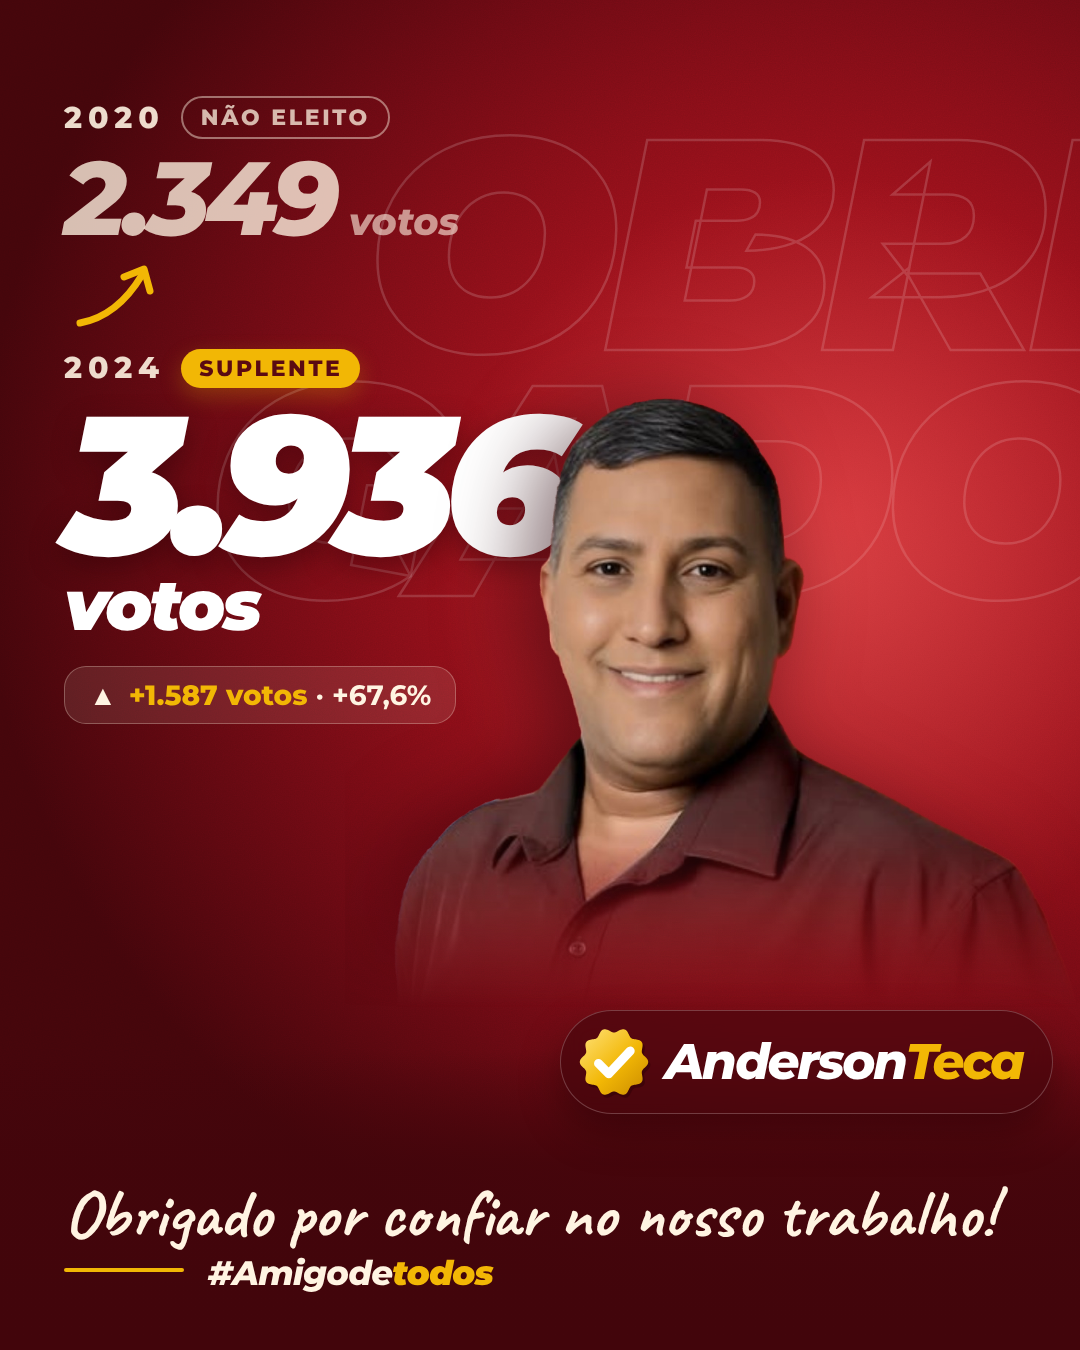
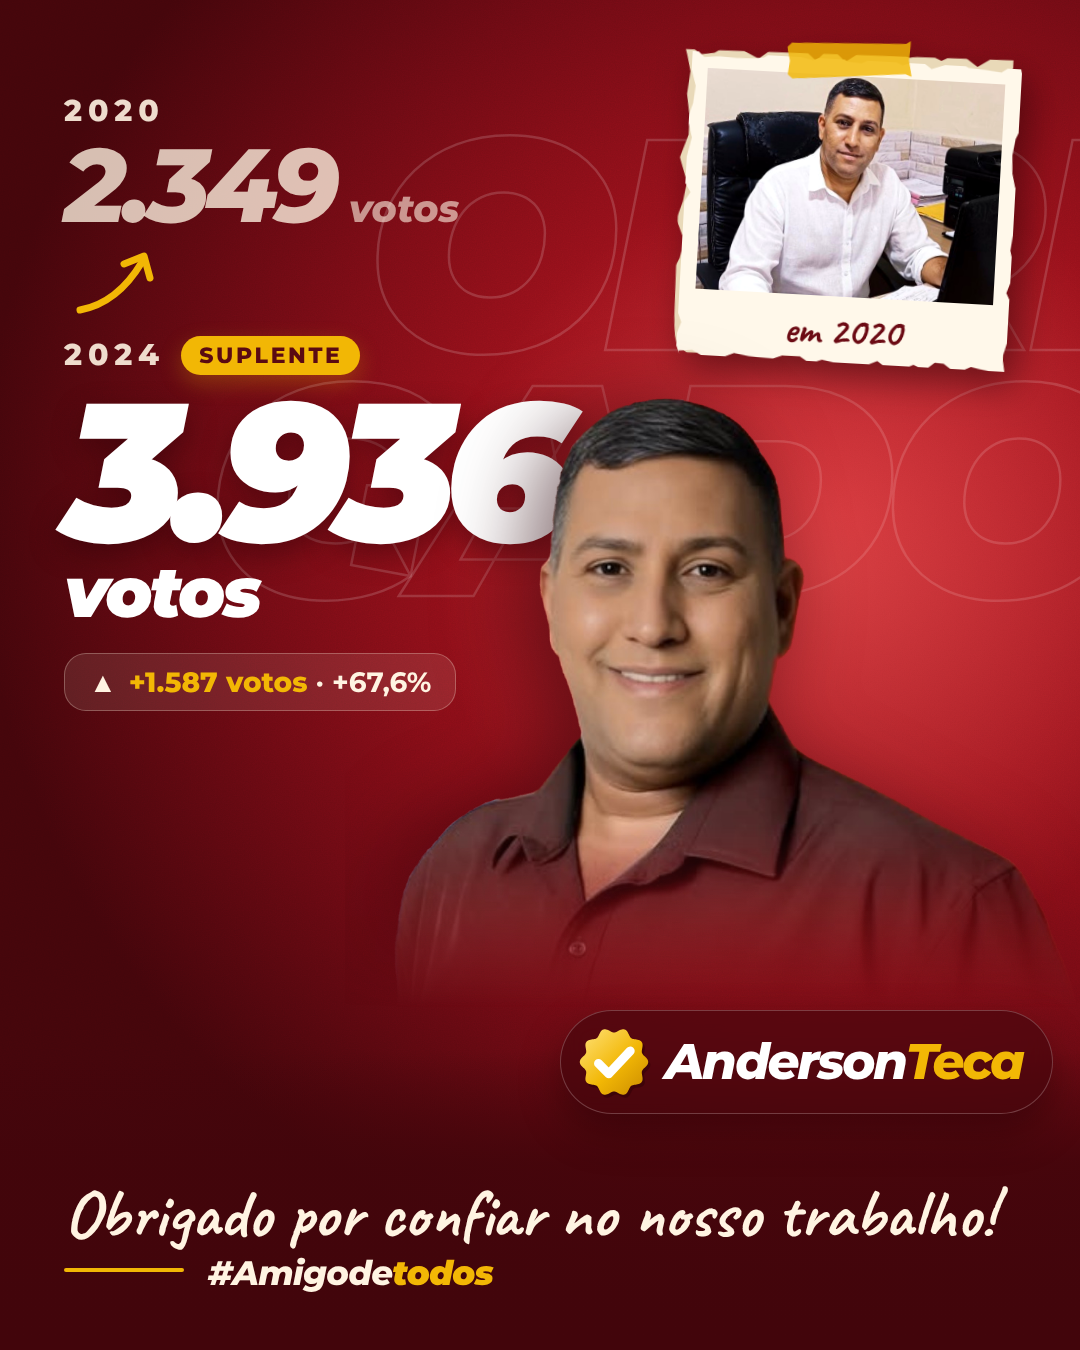
Anderson Teca v3: recorte de papel com foto de 2020, sem rótulo de 2020
Claude-Session: https://claude.ai/code/session_01Y4FBjftjKYjL6a6dxycj4C

Changed region(s): [[0.0306, 0.0622, 0.55, 0.4667], [0.6111, 0.0311, 0.9778, 0.3111], [0.0917, 0.4978, 0.3972, 0.5289]]

diff --git a/artes-clientes/anderson-teca/arte.html b/artes-clientes/anderson-teca/arte.html
@@ -32,6 +32,14 @@
   .n24 .v { font:italic 900 70px/1 'Montserrat'; letter-spacing:-.04em; color:#fff; margin-top:4px }
   .chip { position:relative; z-index:4; display:inline-flex; align-items:center; gap:12px; margin-top:26px; padding:14px 24px; border-radius:22px; background:rgba(255,244,226,.1); border:1.5px solid rgba(255,244,226,.28); font:700 28px/1 'Montserrat'; color:var(--cream) }
   .chip b { font-weight:800; color:var(--gold) }
+  /* recorte de papel com a foto de 2020 */
+  #p20 { z-index:2; transform-origin:50% 50%; filter:drop-shadow(10px 14px 18px rgba(30,0,4,.5)) }
+  #p20 .back { position:absolute; inset:0; background:#E9D9B8 }
+  #p20 .sheet { position:absolute; inset:0; background:#FFF8EA }
+  #p20 .ph { position:absolute; overflow:hidden; background:#000 }
+  #p20 .ph img { width:100%; height:100%; object-fit:cover; object-position:50% 32%; display:block; filter:contrast(1.04) saturate(1.05) }
+  #p20 .cap { position:absolute; left:0; right:0; text-align:center; font:700 40px/1 'Caveat'; color:#6B0A13; transform:rotate(-1.5deg) }
+  #p20 .tape { position:absolute; width:124px; height:36px; background:rgba(242,183,5,.82); box-shadow:0 4px 10px rgba(40,0,6,.25); clip-path:polygon(0 12%,4% 0,96% 8%,100% 0,98% 55%,100% 100%,95% 92%,4% 100%,0 88%,2% 50%) }
   /* rodapé */
   #foot { z-index:4; left:0; width:1080px; background:linear-gradient(180deg,rgba(66,5,11,0),rgba(66,5,11,.85) 38%,#42050B) }
   #thanks { z-index:6; left:64px; right:64px; font:700 68px/1 'Caveat'; color:var(--cream); white-space:nowrap }
@@ -46,13 +54,14 @@
   <img class="abs" id="me" src="work/anderson.png">
   <div class="abs" id="foot"></div>
   <div class="abs" id="col">
-    <div class="yr"><span class="y">2020</span><span class="st off">Não eleito</span></div>
+    <div class="yr"><span class="y">2020</span></div>
     <div class="n20"><span class="n">2.349</span><span class="v">votos</span></div>
     <svg class="arrow" width="90" height="70" viewBox="0 0 90 70"><path d="M8 62 C 30 58, 52 44, 70 14" fill="none" stroke="#F2B705" stroke-width="7" stroke-linecap="round"/><path d="M52 16 L72 8 L78 30" fill="none" stroke="#F2B705" stroke-width="7" stroke-linecap="round" stroke-linejoin="round"/></svg>
     <div class="yr"><span class="y">2024</span><span class="st on">Suplente</span></div>
     <div class="n24"><div class="n">3.936</div><div class="v">votos</div></div>
     <div class="chip">▲ <span><b>+1.587 votos</b> · +67,6%</span></div>
   </div>
+  <div class="abs" id="p20"><div class="back"></div><div class="sheet"></div><div class="ph"><img src="work/anderson2020.jpg"></div><div class="cap">em 2020</div><div class="tape"></div></div>
   <div class="abs" id="logo"><svg width="74" height="74" viewBox="-50 -50 100 100" id="check"></svg><div class="wm">Anderson<b>Teca</b></div></div>
   <div class="abs" id="thanks">Obrigado por confiar no nosso trabalho!</div>
   <div class="abs" id="rule"></div>
@@ -60,8 +69,8 @@
 </div>
 <script>
 const F = new URLSearchParams(location.search).get('f') || 'feed'
-const L = { feed:  { H:1350, ghost:120, glow:[380, 120], me:[345, 300, 860],  logo:[560, 1010], col:96,  foot:[1050, 300], thanks:1180, rule:1268, tag:1256 },
-            story: { H:1920, ghost:260, glow:[340, 520], me:[180, 640, 1000], logo:[540, 1420], col:290, foot:[1480, 440], thanks:1630, rule:1720, tag:1708 } }[F]
+const L = { feed:  { p20:[684, 60, 330, 3.2], H:1350, ghost:120, glow:[380, 120], me:[345, 300, 860],  logo:[560, 1010], col:96,  foot:[1050, 300], thanks:1180, rule:1268, tag:1256 },
+            story: { p20:[672, 250, 350, 3.2], H:1920, ghost:260, glow:[340, 520], me:[180, 640, 1000], logo:[540, 1420], col:290, foot:[1480, 440], thanks:1630, rule:1720, tag:1708 } }[F]
 const $ = id => document.getElementById(id), art = $('art')
 art.style.height = L.H + 'px'; document.body.style.height = L.H + 'px'
 $('ghost').style.top = L.ghost + 'px'
@@ -76,5 +85,20 @@ const scallop = (R, amp, n) => { let d = ''; for (let i = 0; i <= 240; i++) { co
 $('check').innerHTML = `<defs><linearGradient id="g1" x1="0" y1="0" x2="1" y2="1"><stop offset="0" stop-color="#FFE27A"/><stop offset=".55" stop-color="#F2B705"/><stop offset="1" stop-color="#C98A00"/></linearGradient></defs>
   <path d="${scallop(43, .075, 10)}" fill="#2a0306" opacity=".45" transform="translate(3 4)"/><path d="${scallop(43, .075, 10)}" fill="url(#g1)"/>
   <path d="M-21 2 L-7 16 L22 -15" fill="none" stroke="#fff" stroke-width="12" stroke-linecap="round" stroke-linejoin="round"/>`
+// monta o recorte: papel rasgado (duas camadas) + foto + fita
+let sd = 5; const rnd = () => (sd = (sd * 16807) % 2147483647) / 2147483647
+const tornPoly = (amp, step) => { const pts = []; const N = 14
+  for (let x = 0; x <= 100; x += step + rnd() * step) pts.push([x, (rnd() - .5) * amp])
+  for (let y = 0; y <= 100; y += step * 1.6 + rnd() * step) pts.push([100 + (rnd() - .5) * amp, y])
+  for (let x = 100; x >= 0; x -= step + rnd() * step) pts.push([x, 100 + (rnd() - .5) * amp])
+  for (let y = 100; y >= 0; y -= step * 1.6 + rnd() * step) pts.push([(rnd() - .5) * amp, y])
+  return 'polygon(' + pts.map(([x, y]) => x.toFixed(1) + '% ' + y.toFixed(1) + '%').join(',') + ')' }
+{ const [l, t, w, rot] = L.p20, pad = 16, ph = Math.round((w - pad * 2) * 0.74), h = pad + ph + 66
+  const e = $('p20'); e.style.cssText += `left:${l}px;top:${t}px;width:${w}px;height:${h}px;transform:rotate(${rot}deg)`
+  e.querySelector('.back').style.clipPath = tornPoly(5.5, 3.2); e.querySelector('.back').style.transform = 'translate(-6px,-5px) rotate(-1.2deg)'
+  sd = 41; e.querySelector('.sheet').style.clipPath = tornPoly(3.6, 2.6)
+  const f = e.querySelector('.ph'); f.style.cssText += `left:${pad}px;top:${pad}px;width:${w - pad * 2}px;height:${ph}px`
+  const c = e.querySelector('.cap'); c.style.top = (pad + ph + 14) + 'px'
+  const tp = e.querySelector('.tape'); tp.style.left = (w / 2 - 70) + 'px'; tp.style.top = '-18px'; tp.style.transform = 'rotate(-4deg)' }
 window.ready = document.fonts.ready.then(() => $('me').decode())
 </script></body></html>

diff --git a/artes-clientes/anderson-teca/LEIAME.md b/artes-clientes/anderson-teca/LEIAME.md
@@ -1,6 +1,6 @@
 # Anderson Teca: agradecimento pelos votos (feed 1080×1350 e story 1080×1920)
 
 Dados (prints do app Politique, Nova Iguaçu, vereador): 2020 = 2.349 votos; 2024 = 3.936 votos.
-2020: não eleito · 2024: suplente. Diferença: +1.587 votos (+67,6%). Sem número de urna e sem logo de partido.
+2024: suplente (2020 sem rótulo; foto de 2020 em recorte de papel, work/anderson2020.jpg). Diferença: +1.587 votos (+67,6%). Sem número de urna e sem logo de partido.
 Versão 2: vinho/carmim com dourado só nos detalhes (sem cara de fast-food); foto do Anderson sozinho na lateral (work/anderson.png, recorte por work/cut2.py), logo colada na foto. Cores e símbolo da campanha: vermelho + amarelo, marca "AndersonTeca", selo de check, #Amigodetodos.
 `arte.html?f=feed|story` + `render.cjs` (Playwright). Recorte das pessoas: `work/cut.py` (MediaPipe).
